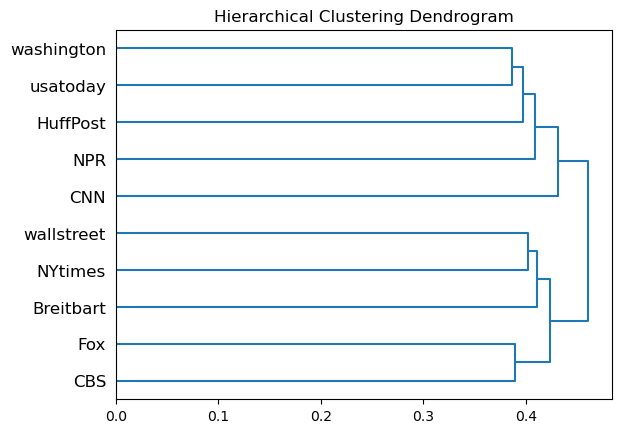
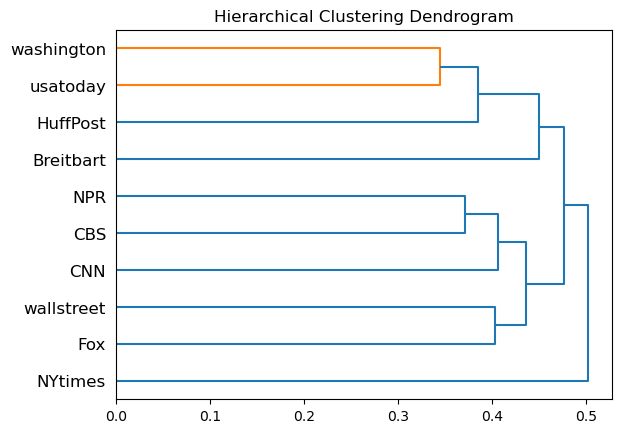
nothing

diff --git a/baseline.py b/baseline.py
@@ -105,7 +105,7 @@ def build_baseline(data_type, label_type):
             print(k)
 
     analyzer = AgglomerativeClustering(
-        n_clusters=5, compute_distances=True, affinity='euclidean', linkage='ward')
+        n_clusters=5, compute_distances=True, affinity='euclidean', linkage='complete')
     # analyzer = KMeans(n_clusters=3)
     cluster_result = dict()
     clusters = analyzer.fit(data)
@@ -139,6 +139,6 @@ def main():
     for data_type in ['article']:
         for label_type in ['source', 'trust']:
             build_baseline(data_type, label_type)
-    # temp()
+    temp()
 if __name__ == '__main__':
     main()

diff --git a/program/analysis.py b/program/analysis.py
@@ -124,7 +124,7 @@ class ClusterAnalysis(BaseAnalysis):
         elif cluster_method == "AgglomerativeClustering":
             # self._analyser =  AgglomerativeClustering(n_clusters=2, compute_distances=True)
             self._analyser = AgglomerativeClustering(
-                n_clusters=5, compute_distances=True, affinity='euclidean', linkage='ward')
+                n_clusters=5, compute_distances=True, affinity='euclidean', linkage='complete')
         elif cluster_method == "DBSCAN":
             self._analyser = DBSCAN(eps=0.5, min_samples=2)
         elif cluster_method == "OPTICS":
